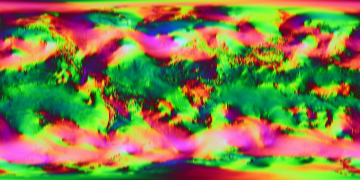
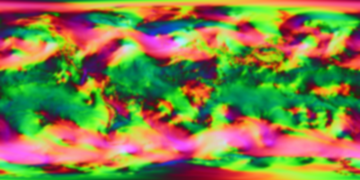
Fix blur only applying vertically

diff --git a/app/src/main/java/net/pgaskin/windy/WindField.java b/app/src/main/java/net/pgaskin/windy/WindField.java
@@ -106,7 +106,7 @@ public class WindField {
         }
         for (int x = 0; x < w; x++) {
             for (int y = 0; y < h; y++) {
-                blurKernel(a, b, x, y, w, h, true);
+                blurKernel(b, a, x, y, w, h, true);
             }
         }
         if (!src.isMutable()) {
